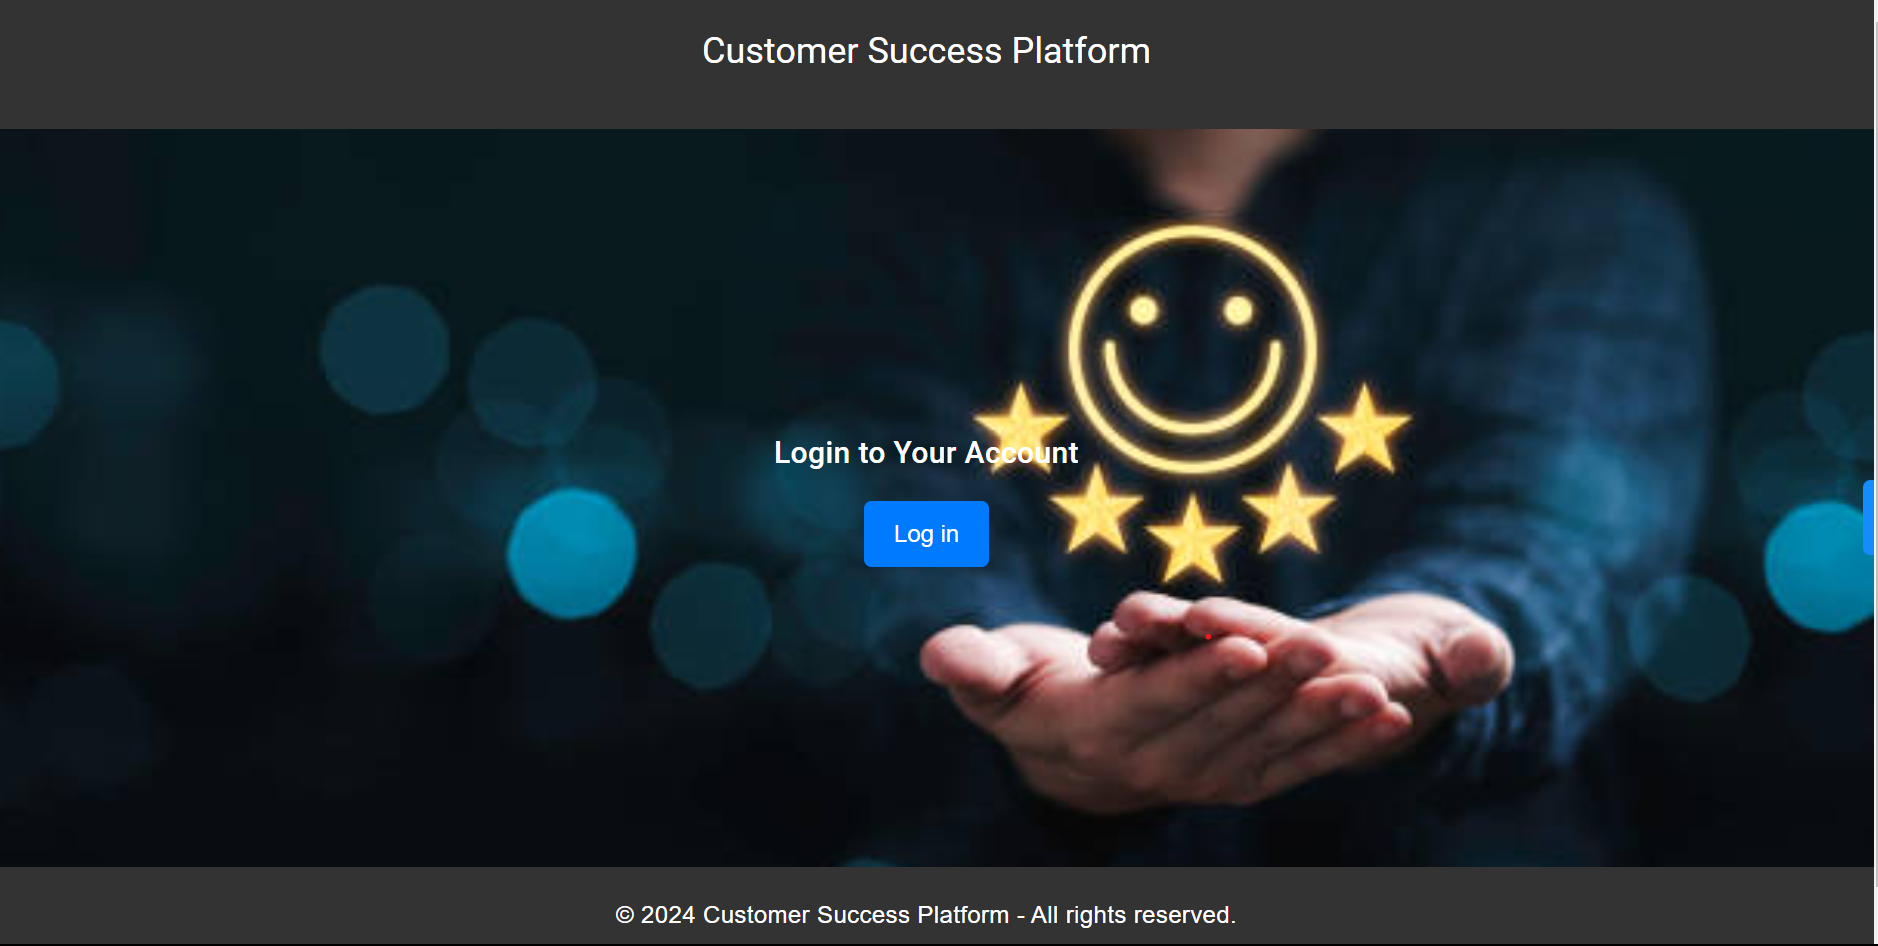
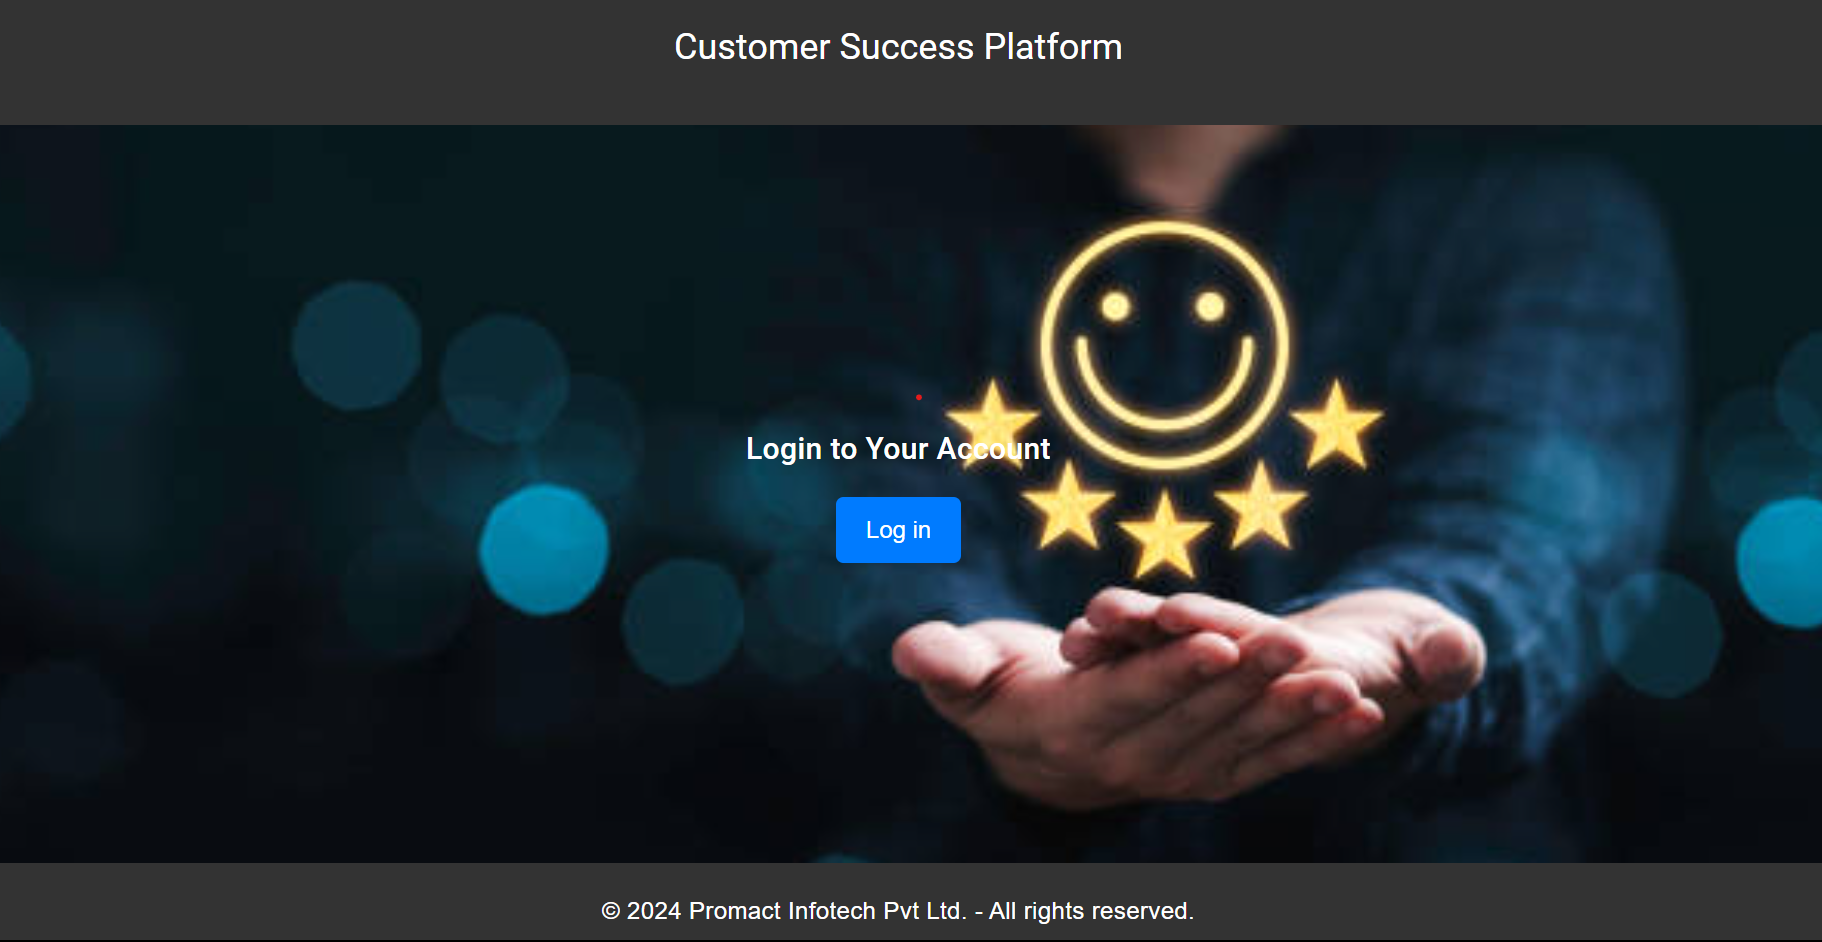
added css to buttons,dynamic card and updated images in readme

diff --git a/Frontend/src/app/MyComponent/project-updates/project-updates.component.ts b/Frontend/src/app/MyComponent/project-updates/project-updates.component.ts
@@ -59,19 +59,18 @@ onSubmit() {
         // Call the service to create Project updates
         this.projectUpdatesService.createProjectUpdate(this.updateForm.value).subscribe(
           (response: any) => {
-            // Handle success response if needed
             console.log('Project Updates created successfully:', response);
             // Reset the form after successful submission
             this.updateForm.reset({ projectId: this.projectId });
             this. loadProjectUpdates();
           },
           error => {
-            // Handle error if needed
+            
             console.error('Error creating Project updates:', error);
           }
         );
       } else {
-        // Form is invalid, handle accordingly
+        // Form is invalid
       }
  }
 
@@ -103,7 +102,7 @@ downloadAsPdf() {
 
     if (filteredProjectUpdates.length === 0) {
       console.log('No project updates found for the specified project ID.');
-      return; // Exit function if no project updates are found
+      return; 
     }
 
     const doc = new jsPDF();

diff --git a/Frontend/src/app/MyComponent/auditor/auditor.component.css b/Frontend/src/app/MyComponent/auditor/auditor.component.css
@@ -1,6 +1,4 @@
 /* styling of cards */
-
-
 .project-container {
   display: flex;
 }
@@ -24,7 +22,6 @@
   font-size: 18px;
   font-weight: bold;
 }
-
 /* styling of cards ends here */
 
 #drawer{
@@ -41,19 +38,18 @@ height:1000px;
 
 #search-btn {
   position: absolute; 
-  right: 20px; 
-  margin-right: 5px; 
+  right:1px; 
   color:white;
-  border-radius: 2px;
+  border-radius: 3px;
   background-color:rgb(55, 150, 35);
 }
 
 
 
-/* new css for top navbar */
+/* css for top navbar */
 .navbar {
-  background-color: #333; /* Background color of the navbar */
-  padding: 10px 0; /* Adjust the padding as needed */
+  background-color: #333; 
+  padding: 10px 0; 
   margin-bottom: 8px;
  
 }
@@ -66,7 +62,7 @@ height:1000px;
 
 .navbar h2 {
   color: white; /* Text color of the heading */
-  margin: 0; /* Remove default margins */
+  margin: 0; 
 }
 
 .form {

diff --git a/Frontend/src/app/MyComponent/login/login.component.html b/Frontend/src/app/MyComponent/login/login.component.html
@@ -1,9 +1,10 @@
 
    <ng-container *ngIf="auth.isAuthenticated$ | async; else loggedOut">
+    <div id="btn-login" class="login-btn in">
     <button class="login-btn in" (click)="auth.logout({ logoutParams: { returnTo: document.location.origin } })">
       Log out
     </button>
-
+  </div>
     <app-auditor></app-auditor>
   </ng-container>
 
@@ -22,7 +23,7 @@
             </section>
         </main>
         <footer>
-            <p>&copy; 2024 Customer Success Platform - All rights reserved.</p>
+            <p>&copy; 2024 Promact Infotech Pvt Ltd. - All rights reserved.</p>
         </footer>
     </body>
 

diff --git a/Frontend/src/app/MyComponent/auditor/auditor.component.ts b/Frontend/src/app/MyComponent/auditor/auditor.component.ts
@@ -13,11 +13,15 @@ constructor(public auth: AuthService,
   private dataService: NewProjectService
   ){}
   projectNames: string[] = []; 
-totalProjects: number=10; 
-inProgress: number = 5; 
-completed: number = 3; 
-onHold: number = 2; 
+totalProjects: number=5; 
+inProgress: number = 2; 
+completed: number = 2; 
+onHold: number = 1; 
+
 ngOnInit(): void{
+  setInterval(() => {
+    this.calculateTotalProjectsCount();
+  }, 400);
   this.calculateTotalProjectsCount();
 }
 

diff --git a/Frontend/src/app/MyComponent/project-details/project-details.component.ts b/Frontend/src/app/MyComponent/project-details/project-details.component.ts
@@ -299,7 +299,8 @@ if (this.version && this.version.length > 0) {
     version.changeType,
     version.changes,
     version.changeReason,
-    version.revisionDate,  
+    version.revisionDate,
+    version.approvalDate,  
     version.approvedBy
   ]);
   yPos = this.printSection(doc, 'Version History', versionHeaders, versionData, yPos);

diff --git a/Frontend/src/app/MyComponent/display-projects/display-projects.component.ts b/Frontend/src/app/MyComponent/display-projects/display-projects.component.ts
@@ -49,6 +49,7 @@ export class DisplayProjectsComponent implements OnInit {
       () => {
         console.log('Project deleted successfully');
         this.loadProjects();
+     
       },
       (error) => {
         console.error('Error deleting project:', error); // Log any errors

diff --git a/Frontend/src/app/MyComponent/login/login.component.css b/Frontend/src/app/MyComponent/login/login.component.css
@@ -4,7 +4,12 @@
   padding: 0;
   box-sizing: border-box;
 }
-
+#btn-login{
+  padding:10px;
+  border-radius: 0px;
+  background-color: #333;
+  padding-bottom: 10px;
+}
 .in {
   position:static;
   float:right;
